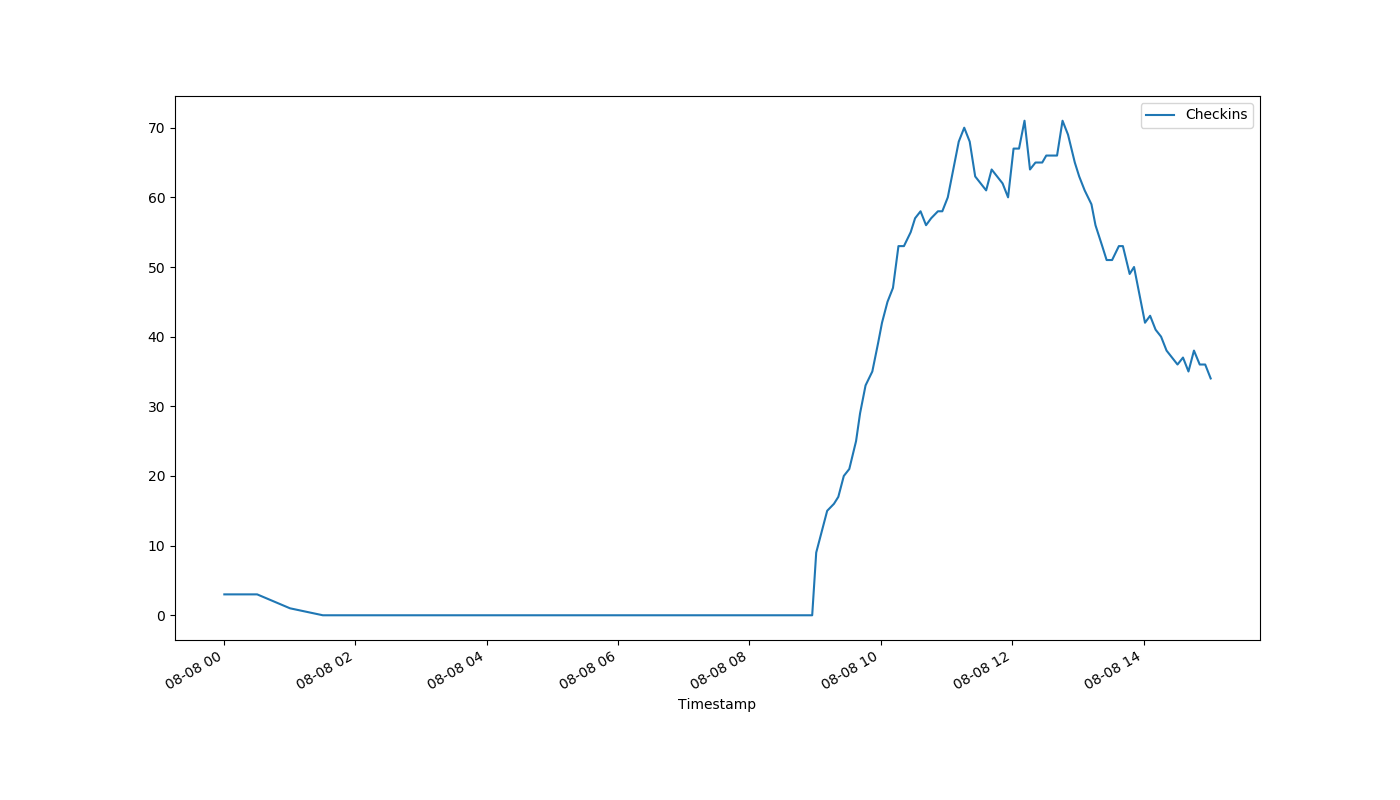
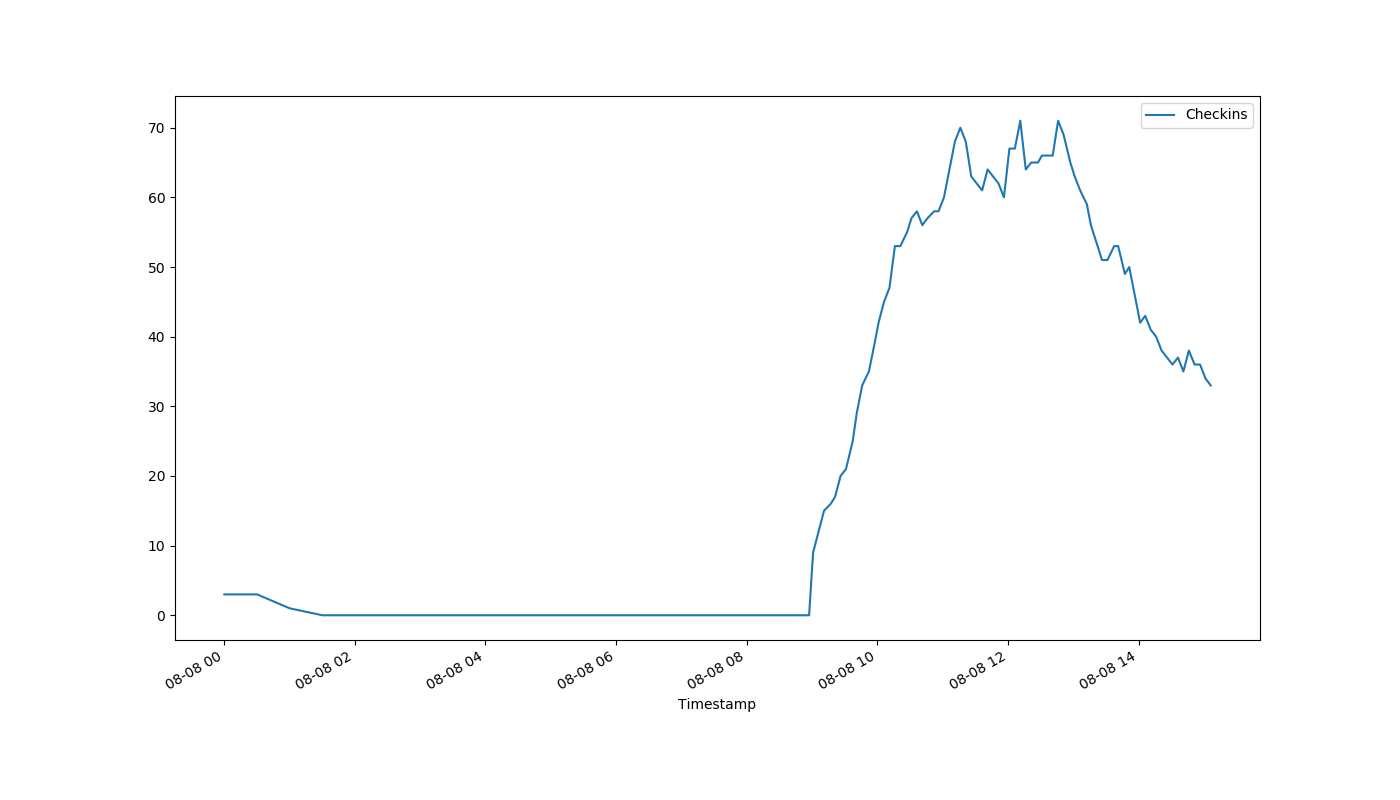
auto-Aug-08-15:07:39

diff --git a/index.html b/index.html
@@ -1,1 +1,1 @@
-<!DOCTYPE html><html><head><meta http-equiv="refresh" content="30"><link rel='stylesheet' href='holmcurrent.css'></head><body><p id='count'>34</p><div id='graph-wrap'><img id='graph' src='holmgraph-Aug-08.png'></div><p id='updated'>Last updated 15:02:17 / 15:01:19</p></body></html>
+<!DOCTYPE html><html><head><meta http-equiv="refresh" content="30"><link rel='stylesheet' href='holmcurrent.css'></head><body><p id='count'>33</p><div id='graph-wrap'><img id='graph' src='holmgraph-Aug-08.png'></div><p id='updated'>Last updated 15:06:18 / 15:06:05</p></body></html>
